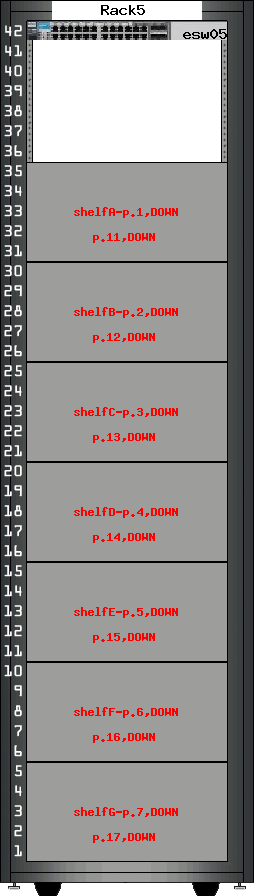
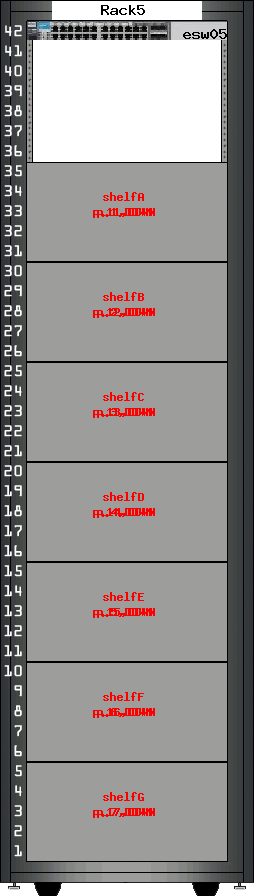
Better string in image display

diff --git a/infra/includes.php b/infra/includes.php
@@ -108,15 +108,18 @@ function getMacs($switchIP, $port_id) {
         echo "<span class='infoBox pull-left'>No data querying arp table.</span>";
     }
 }
+
 function getNet($switchIP, $port_id) {
 
-    
+
     $macs = shell_exec("perl /usr/sbin/switchlabel.pl " . $switchIP . " public | grep -w 'port" . $port_id . "'");
     $results = explode("-", $macs);
     if (isset($results[0]) && $results[0] != NULL) {
-        $arp = shell_exec("arp -a | grep -i " . trim($results[0] . " | awk -F '(' '{print $2}' | awk -F ')' '{print $1   }' "));
-        $arp = ($arp == "" ) ? "N/A" : $arp;
-        return " IP: " . $arp ;
+
+        $arp = shell_exec("sudo arp -a | grep -i " . trim($results[0] . " | awk -F '(' '{print $2}' | awk -F ')' '{print $1   }' | head -1 "));
+       
+        $arp = ($arp == "" ) ? "N/A" : trim($arp);
+        return " IP: " . $arp;
     } else {
         return "No data";
     }
@@ -124,7 +127,7 @@ function getNet($switchIP, $port_id) {
 
 function drawRack($r, $racktemplate, $id_switch) {
     $switch = MySwitch::retrieveById($id_switch);
-    
+
 
     $template = imagecreatefrompng($racktemplate);
 
@@ -184,23 +187,24 @@ function drawRackDevice(&$img, $text, $pos = 'center', $switch = NULL) {
                     if ($switch != NULL) {
                         $switch_ip = $switch->getIp();
                         $port_id = intval(preg_replace('/[^0-9]+/', '', $color), 10);
-                         $macs = getNet($switch_ip,$port_id);
-                         
-                         $color .=$macs;
+                        $macs = getNet($switch_ip, $port_id);
+
+                        $color .=$macs;
                     }
-                   
                 } elseif (strpos($color, 'DOWN')) {
                     $text_colour = imagecolorallocate($img, 255, 0, 0);
                 } else {
                     $text_colour = imagecolorallocate($img, 0, 0, 0);
                 }
-
-                imageCenterString($img, 3, $color, $text_colour, $key * 50);
+                $lines = explode('-',$color);
+                foreach ($lines as $l => $line) {
+                    imageCenterString($img, 3, $line, $text_colour, $key * 60 + ($l -1) * 30 );
+                }
             }
         } else {
             if ($switch != NULL)
                 $switchname = $switch->getName();
-                $text = $switchname;
+            $text = $switchname;
             $width = ceil(strlen($text) * 16);
             $x = imagesx($img) - $width - 8;
             $y = imagesy($img) - 16;
@@ -224,7 +228,7 @@ function imageCenterString(&$img, $font, $text, $color, $y = 0) {
         array(7.6, 16),
         array(8.5, 16));
     $width = ceil(strlen($text) * $num[$font][0]);
-    $x = imagesx($img) - $width - 8;
+    $x = imagesx($img) - $width -8;
     $y = imagesy($img) - ($num[$font][1] + 2) + $y;
     imagestring($img, $font, $x / 2, $y / 2, $text, $color);
 }

diff --git a/infra/views/smarty/templates_c/25590053bcb05fdc73787632b6340bf1692bcd43_0.file.index.tpl.php b/infra/views/smarty/templates_c/25590053bcb05fdc73787632b6340bf1692bcd43_0.file.index.tpl.php
@@ -1,11 +1,11 @@
 <?php
-/* Smarty version 3.1.28, created on 2016-11-01 08:41:31
+/* Smarty version 3.1.28, created on 2016-11-01 10:10:20
   from "/var/www/SPOT/infra/views/index.tpl" */
 
 if ($_smarty_tpl->smarty->ext->_validateCompiled->decodeProperties($_smarty_tpl, array (
   'has_nocache_code' => false,
   'version' => '3.1.28',
-  'unifunc' => 'content_5818472b47a344_41008008',
+  'unifunc' => 'content_58185bfc6a4c12_32986378',
   'file_dependency' => 
   array (
     '25590053bcb05fdc73787632b6340bf1692bcd43' => 
@@ -22,7 +22,7 @@ if ($_smarty_tpl->smarty->ext->_validateCompiled->decodeProperties($_smarty_tpl,
     'file:partial_commons".((string)$_smarty_tpl->tpl_vars[\'SYSTEM_PATH_SEPARATOR\']->value)."_footer.tpl' => 1,
   ),
 ),false)) {
-function content_5818472b47a344_41008008 ($_smarty_tpl) {
+function content_58185bfc6a4c12_32986378 ($_smarty_tpl) {
 $_smarty_tpl->smarty->ext->_subtemplate->render($_smarty_tpl, "file:partial_commons".((string)$_smarty_tpl->tpl_vars['SYSTEM_PATH_SEPARATOR']->value)."_header.tpl", $_smarty_tpl->cache_id, $_smarty_tpl->compile_id, 0, $_smarty_tpl->cache_lifetime, array(), 0, true);
 ?>
 

diff --git a/infra/views/smarty/templates_c/679d120dfbdeb169a536c799fb862bdff6279a25_0.file.list_vlans.tpl.php b/infra/views/smarty/templates_c/679d120dfbdeb169a536c799fb862bdff6279a25_0.file.list_vlans.tpl.php
@@ -1,11 +1,11 @@
 <?php
-/* Smarty version 3.1.28, created on 2016-11-01 08:46:11
+/* Smarty version 3.1.28, created on 2016-11-01 10:10:29
   from "/var/www/SPOT/infra/views/list_vlans.tpl" */
 
 if ($_smarty_tpl->smarty->ext->_validateCompiled->decodeProperties($_smarty_tpl, array (
   'has_nocache_code' => false,
   'version' => '3.1.28',
-  'unifunc' => 'content_58184843625aa3_82550033',
+  'unifunc' => 'content_58185c057de3e6_00120715',
   'file_dependency' => 
   array (
     '679d120dfbdeb169a536c799fb862bdff6279a25' => 
@@ -21,7 +21,7 @@ if ($_smarty_tpl->smarty->ext->_validateCompiled->decodeProperties($_smarty_tpl,
     'file:partial_commons".((string)$_smarty_tpl->tpl_vars[\'SYSTEM_PATH_SEPARATOR\']->value)."_list_vlans-switch_table_container.tpl' => 1,
   ),
 ),false)) {
-function content_58184843625aa3_82550033 ($_smarty_tpl) {
+function content_58185c057de3e6_00120715 ($_smarty_tpl) {
 ?>
 
 <?php if ($_smarty_tpl->tpl_vars['HIDE_DETAILS_BOX']->value && !$_smarty_tpl->tpl_vars['DISABLE_DETAILS_BOX']->value) {?>

diff --git a/infra/views/smarty/templates_c/ffe109ca0018544ea362d6128231985a4fccfa49_0.file._header.tpl.php b/infra/views/smarty/templates_c/ffe109ca0018544ea362d6128231985a4fccfa49_0.file._header.tpl.php
@@ -1,11 +1,11 @@
 <?php
-/* Smarty version 3.1.28, created on 2016-11-01 08:41:31
+/* Smarty version 3.1.28, created on 2016-11-01 10:10:20
   from "/var/www/SPOT/infra/views/partial_commons/_header.tpl" */
 
 if ($_smarty_tpl->smarty->ext->_validateCompiled->decodeProperties($_smarty_tpl, array (
   'has_nocache_code' => false,
   'version' => '3.1.28',
-  'unifunc' => 'content_5818472b48e5d4_27771478',
+  'unifunc' => 'content_58185bfca90f27_88354938',
   'file_dependency' => 
   array (
     'ffe109ca0018544ea362d6128231985a4fccfa49' => 
@@ -19,7 +19,7 @@ if ($_smarty_tpl->smarty->ext->_validateCompiled->decodeProperties($_smarty_tpl,
   array (
   ),
 ),false)) {
-function content_5818472b48e5d4_27771478 ($_smarty_tpl) {
+function content_58185bfca90f27_88354938 ($_smarty_tpl) {
 ?>
 <!DOCTYPE html PUBLIC "-//W3C//DTD XHTML 1.0 Transitional//EN" "http://www.w3.org/TR/xhtml1/DTD/xhtml1-transitional.dtd">
 <html xmlns="http://www.w3.org/1999/xhtml" xml:lang="en" lang="en">

diff --git a/infra/views/smarty/templates_c/17367a31d56289e06b2051c6c434f9fe8a1ac21e_0.file._errors.tpl.php b/infra/views/smarty/templates_c/17367a31d56289e06b2051c6c434f9fe8a1ac21e_0.file._errors.tpl.php
@@ -1,11 +1,11 @@
 <?php
-/* Smarty version 3.1.28, created on 2016-11-01 08:46:11
+/* Smarty version 3.1.28, created on 2016-11-01 10:10:29
   from "/var/www/SPOT/infra/views/partial_commons/_errors.tpl" */
 
 if ($_smarty_tpl->smarty->ext->_validateCompiled->decodeProperties($_smarty_tpl, array (
   'has_nocache_code' => false,
   'version' => '3.1.28',
-  'unifunc' => 'content_5818484363b8b4_60357916',
+  'unifunc' => 'content_58185c057fe264_69805160',
   'file_dependency' => 
   array (
     '17367a31d56289e06b2051c6c434f9fe8a1ac21e' => 
@@ -19,7 +19,7 @@ if ($_smarty_tpl->smarty->ext->_validateCompiled->decodeProperties($_smarty_tpl,
   array (
   ),
 ),false)) {
-function content_5818484363b8b4_60357916 ($_smarty_tpl) {
+function content_58185c057fe264_69805160 ($_smarty_tpl) {
 if ($_smarty_tpl->tpl_vars['errors']->value) {?>
 	<div class="errors">
 		<h3><?php echo $_smarty_tpl->tpl_vars['MSG_ERRORS_OCCURED']->value;?>

diff --git a/infra/views/smarty/templates_c/7358e3476a4bcb644e489444da34bb23b74a1565_0.file._menu.tpl.php b/infra/views/smarty/templates_c/7358e3476a4bcb644e489444da34bb23b74a1565_0.file._menu.tpl.php
@@ -1,11 +1,11 @@
 <?php
-/* Smarty version 3.1.28, created on 2016-11-01 08:41:31
+/* Smarty version 3.1.28, created on 2016-11-01 10:10:20
   from "/var/www/SPOT/infra/views/partial_commons/_menu.tpl" */
 
 if ($_smarty_tpl->smarty->ext->_validateCompiled->decodeProperties($_smarty_tpl, array (
   'has_nocache_code' => false,
   'version' => '3.1.28',
-  'unifunc' => 'content_5818472b54d208_38114315',
+  'unifunc' => 'content_58185bfcb50862_36106918',
   'file_dependency' => 
   array (
     '7358e3476a4bcb644e489444da34bb23b74a1565' => 
@@ -19,7 +19,7 @@ if ($_smarty_tpl->smarty->ext->_validateCompiled->decodeProperties($_smarty_tpl,
   array (
   ),
 ),false)) {
-function content_5818472b54d208_38114315 ($_smarty_tpl) {
+function content_58185bfcb50862_36106918 ($_smarty_tpl) {
 ?>
 <div class="container">
     <div class="row row-left">

diff --git a/infra/views/smarty/templates_c/4255755cbe59c11fbf60e171620bc70f686de8c0_0.file._footer.tpl.php b/infra/views/smarty/templates_c/4255755cbe59c11fbf60e171620bc70f686de8c0_0.file._footer.tpl.php
@@ -1,11 +1,11 @@
 <?php
-/* Smarty version 3.1.28, created on 2016-11-01 08:41:31
+/* Smarty version 3.1.28, created on 2016-11-01 10:10:22
   from "/var/www/SPOT/infra/views/partial_commons/_footer.tpl" */
 
 if ($_smarty_tpl->smarty->ext->_validateCompiled->decodeProperties($_smarty_tpl, array (
   'has_nocache_code' => false,
   'version' => '3.1.28',
-  'unifunc' => 'content_5818472b5657a2_68234637',
+  'unifunc' => 'content_58185bfeb2ded9_88497461',
   'file_dependency' => 
   array (
     '4255755cbe59c11fbf60e171620bc70f686de8c0' => 
@@ -19,7 +19,7 @@ if ($_smarty_tpl->smarty->ext->_validateCompiled->decodeProperties($_smarty_tpl,
   array (
   ),
 ),false)) {
-function content_5818472b5657a2_68234637 ($_smarty_tpl) {
+function content_58185bfeb2ded9_88497461 ($_smarty_tpl) {
 ?>
 		</div><!--/.row-->
 	</div><!--/.container-->

diff --git a/infra/views/smarty/templates_c/fd3a88455577aa7931d6b6e31a750669647ccb3d_0.file._list_vlans-switch_table_container.tpl.php b/infra/views/smarty/templates_c/fd3a88455577aa7931d6b6e31a750669647ccb3d_0.file._list_vlans-switch_table_container.tpl.php
@@ -1,11 +1,11 @@
 <?php
-/* Smarty version 3.1.28, created on 2016-11-01 08:46:11
+/* Smarty version 3.1.28, created on 2016-11-01 10:10:29
   from "/var/www/SPOT/infra/views/partial_commons/_list_vlans-switch_table_container.tpl" */
 
 if ($_smarty_tpl->smarty->ext->_validateCompiled->decodeProperties($_smarty_tpl, array (
   'has_nocache_code' => false,
   'version' => '3.1.28',
-  'unifunc' => 'content_581848437240c1_82914855',
+  'unifunc' => 'content_58185c058d46d3_11879068',
   'file_dependency' => 
   array (
     'fd3a88455577aa7931d6b6e31a750669647ccb3d' => 
@@ -19,7 +19,7 @@ if ($_smarty_tpl->smarty->ext->_validateCompiled->decodeProperties($_smarty_tpl,
   array (
   ),
 ),false)) {
-function content_581848437240c1_82914855 ($_smarty_tpl) {
+function content_58185c058d46d3_11879068 ($_smarty_tpl) {
 ?>
 
 
